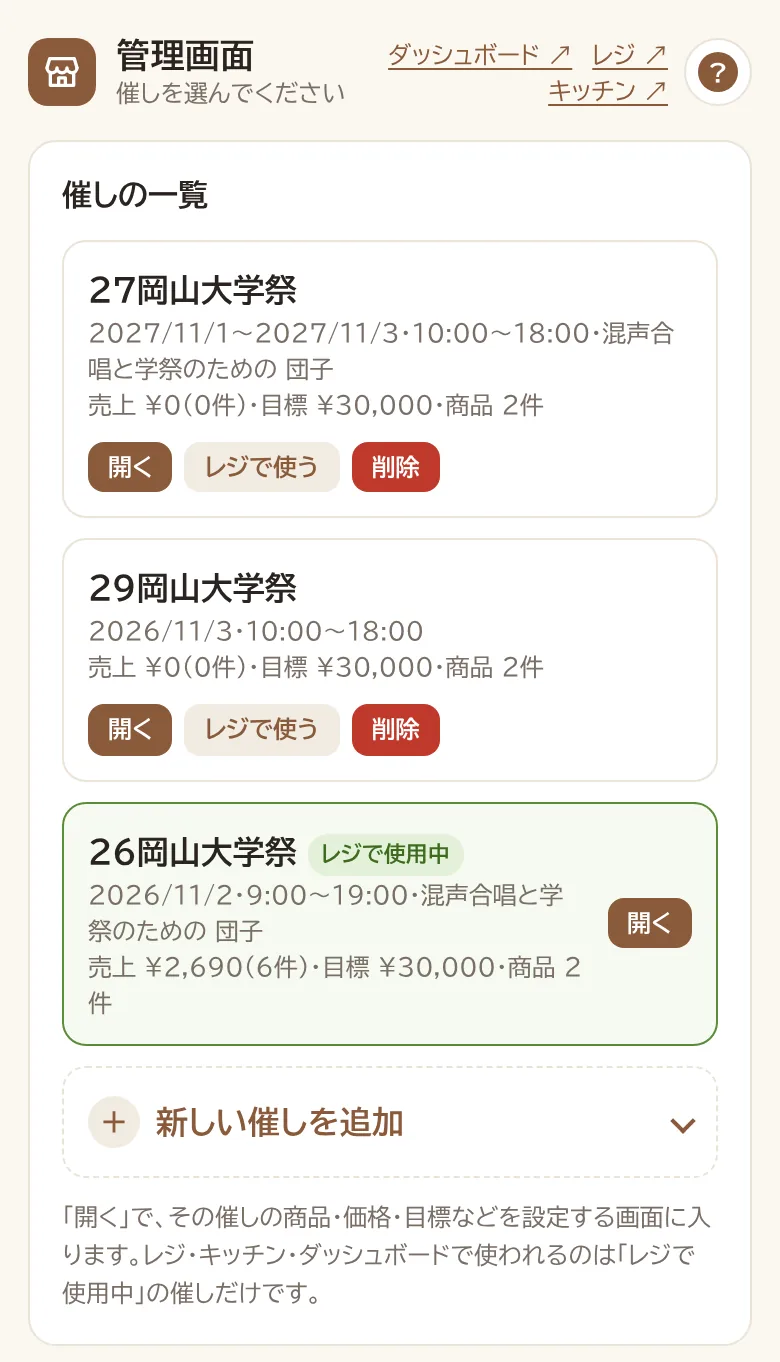
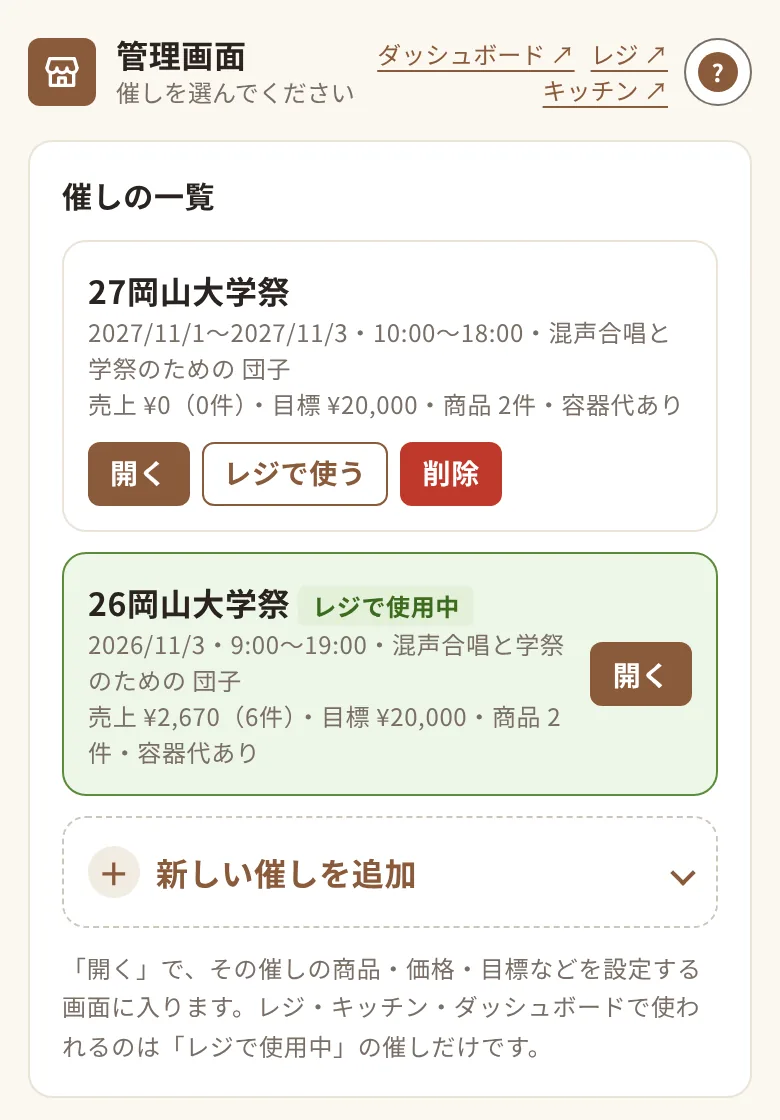
ヘルプのスクリーンショットを新しいデザインで撮り直す
- public/help/*.webp（26枚）をデモデータで撮り直し、画像の大きさの指定と説明文（alt）を合わせる
- お預かり金額の入力欄に数字の上下ボタンを出さない

Claude-Session: https://claude.ai/code/session_01UZ9qf4W2YaGSTJ3RujnS96

diff --git a/public/admin.html b/public/admin.html
@@ -85,6 +85,8 @@
   .recv-quick button { background: var(--mg-surface-sub); border-radius: var(--mg-radius-md); padding: 14px 4px; font-size: 17px; font-weight: 700; color: var(--mg-text); }
   .recv-quick button.exact { background: var(--mg-success-bg-strong); color: var(--mg-success-text); }
   .recv-input { width: 100%; padding: 14px; font-size: 26px; text-align: right; border: 1px solid var(--mg-border-field); border-radius: var(--mg-radius-md); background: var(--mg-surface); color: var(--mg-text); font-variant-numeric: tabular-nums; }
+  .recv-input { -moz-appearance: textfield; }
+  .recv-input::-webkit-outer-spin-button, .recv-input::-webkit-inner-spin-button { -webkit-appearance: none; margin: 0; }   /* 数字の上下ボタンは出さない（金額はボタンか入力で） */
   .recv-msg { min-height: 1.6em; margin-top: 8px; font-size: 18px; text-align: right; }
   .recv-msg.short { color: var(--mg-error); font-weight: 700; }
   .modal-btns { display: grid; grid-template-columns: 1fr 1.6fr; gap: 10px; margin-top: 16px; }
@@ -354,7 +356,7 @@
 
   <details>
     <summary>ログインのしかたは？</summary>
-    <figure class="narrow"><img src="/help/reg-login.webp" width="380" height="450" loading="lazy" alt="ログイン画面。担当者名とパスワードの入力欄とログインボタン"></figure>
+    <figure class="narrow"><img src="/help/reg-login.webp" width="380" height="483" loading="lazy" alt="ログイン画面。担当者名とパスワードの入力欄とログインボタン"></figure>
     <p>自分の名前（担当者名）と、レジ用のパスワードを入れて「ログイン」を押します。パスワードは店の責任者に聞いてください。名前は会計ごとに記録されるので、本人の名前を入れてください。</p>
     <p>ログインは<b>3日間</b>有効なので、同じスマホなら翌日もそのまま使えます。パスワードはスマホに保存されません。</p>
   </details>
@@ -369,7 +371,7 @@
 
   <details>
     <summary>本数の入れ方は？（味ごとの入力）</summary>
-    <figure class="narrow"><img src="/help/reg-qty.webp" width="370" height="205" loading="lazy" alt="商品ごとの入力欄。団子は、みたらし2、あんこ1、きなこ1の味のボタンと、計4本の表示。各ボタンの左下にマイナス。焼きマシュマロはマイナス、本数、プラスのボタン"></figure>
+    <figure class="narrow"><img src="/help/reg-qty.webp" width="370" height="209" loading="lazy" alt="商品ごとの入力欄。団子は、みたらし2、あんこ1、きなこ1の味のボタンと、計4本の表示。各ボタンの左下にマイナス。焼きマシュマロはマイナス、本数、プラスのボタン"></figure>
     <p><b>団子のように味のある商品</b>は、お客さんの言う味のボタンを、その本数だけタップします。「みたらし2本と、あんこ・きなこ1本ずつ」なら、「みたらし」を2回、「あんこ」と「きなこ」を1回ずつ押します。ボタンに本数が出て、右上の「計 ○本」が合計です。</p>
     <p>押しすぎたら、そのボタンの左下の「−」で1本ずつ減らします（「−」は1本以上入っている味にだけ出ます）。全部やり直すときは「お会計」の「クリア」を押します。</p>
     <p>セットの組み方は<b>味に関係なく合計の本数</b>で自動で決まります。たとえば団子4本なら「3本セット＋1本」、7本なら「5本セット＋1本×2」と、お客さんに一番有利な組み方で計算します。味の組み合わせは自由です。</p>
@@ -379,7 +381,7 @@
 
   <details>
     <summary>「あと1本で〜お得」と出たら？</summary>
-    <figure class="narrow"><img src="/help/reg-cart.webp" width="370" height="201" loading="lazy" alt="お会計欄。団子4本（3本セットと1本）550円、その下に味の内訳みたらし2・あんこ1・きなこ1、容器代10円、あと1本で50円お得（味を聞いて追加）という提案、合計560円"></figure>
+    <figure class="narrow"><img src="/help/reg-cart.webp" width="370" height="240" loading="lazy" alt="お会計欄。団子4本（3本セットと1本）550円、その下に味の内訳みたらし2・あんこ1・きなこ1、容器代10円、あと1本で50円お得（味を聞いて追加）という提案、合計560円"></figure>
     <p>本数を少し足したほうが合計が安くなるときに出る提案です。上の例では、団子4本だと560円ですが、5本にすると510円で50円安くなります。</p>
     <p>お客さんに「あと1本足すとお得になりますよ」と声をかけて、希望されたら<b>何味にするか聞いて</b>、その味のボタンを押してください。そのままでよければ、何もせず会計に進んでかまいません。</p>
     <p>味のない商品だけのときは、提案の横に黄色の「○本にする」ボタンが出るので、それを押せば足せます。</p>
@@ -398,7 +400,7 @@
 
   <details>
     <summary>支払方法のボタンを押したあとは？</summary>
-    <figure class="narrow"><img src="/help/reg-pay.webp" width="370" height="63" loading="lazy" alt="支払方法のボタン。現金、PayPay、d払い"></figure>
+    <figure class="narrow"><img src="/help/reg-pay.webp" width="370" height="68" loading="lazy" alt="支払方法のボタン。現金、PayPay、d払い"></figure>
     <p>お客さんの支払方法のボタンを押すと、記録の前に確認の画面が出ます。ボタンを押しただけでは、まだ記録されません。</p>
     <p>キャッシュレス（PayPay、d払いなど現金以外）のときは、お客さんの支払いが済んだのを確かめてから、確認画面の「はい（記録する）」を押してください。</p>
       <p>出てくる支払方法は、管理画面で催しごとに選んだものです（現金を扱わない催しでは「現金」が出ません）。お預かり金額とおつりを入れるのは「現金」のときだけです。</p>
@@ -406,13 +408,13 @@
 
   <details>
     <summary>現金のとき（お預かりとおつり）は？</summary>
-    <figure class="narrow"><img src="/help/reg-recv.webp" width="358" height="389" loading="lazy" alt="お預かり金額の入力画面。合計510円、ちょうどや1,000円などのボタン、入力欄、おつり490円の表示"></figure>
+    <figure class="narrow"><img src="/help/reg-recv.webp" width="390" height="503" loading="lazy" alt="お預かり金額の入力画面。合計510円、ちょうどや1,000円などのボタン、入力欄、おつり490円の表示"></figure>
     <p>現金では、先に<b>お預かり金額</b>を入れます。「ちょうど」や「¥1,000」などのボタンを押すか、下の欄に金額を入力してください。入れるとおつりが表示されます。合計より少ない金額では「次へ」が押せません。</p>
   </details>
 
   <details>
     <summary>確認画面では何を見ればいい？</summary>
-    <figure class="narrow"><img src="/help/reg-confirm.webp" width="390" height="520" loading="lazy" alt="確認画面。現金の表示、団子5本セット500円、容器代10円、数量 団子5本、味 みたらし2・あんこ2・きなこ1、合計510円、お預かり1,000円、おつり490円、いいえとはいのボタン"></figure>
+    <figure class="narrow"><img src="/help/reg-confirm.webp" width="390" height="641" loading="lazy" alt="確認画面。現金の表示、団子5本セット500円、容器代10円、数量 団子5本、味 みたらし2・あんこ2・きなこ1、合計510円、お預かり1,000円、おつり490円、いいえとはいのボタン"></figure>
     <p>いちばん上の色つきの帯が支払方法です（ボタンと同じ色。現金は緑）。本数、<b>味</b>（ピンクの行）、合計金額、現金ならおつりを確かめて、よければ「はい（記録する）」を押します。味は、お客さんに読み上げて確かめると間違いが減ります。</p>
     <p>間違いに気づいたら「いいえ」を押すと、入力したお会計はそのままで前の画面に戻ります。現金で、お預かり金額だけを直したいときは「← お預かり金額を入力し直す」を押してください。</p>
   </details>
@@ -421,7 +423,7 @@
 
   <details>
     <summary>記録した会計を間違えた</summary>
-    <figure class="narrow"><img src="/help/reg-hist.webp" width="370" height="382" loading="lazy" alt="最近の会計の一覧。各行に会計番号と時刻、内容と味、金額、取消ボタン。キッチンで作り終わった会計には「できた」の印。取消済みの行は取り消し線が引かれ、戻すボタンになっている"></figure>
+    <figure class="narrow"><img src="/help/reg-hist.webp" width="370" height="509" loading="lazy" alt="最近の会計の一覧。各行に会計番号と時刻、内容と味、金額、取消ボタン。キッチンで作り終わった会計には「できた」の印。取消済みの行は取り消し線が引かれ、戻すボタンになっている"></figure>
     <p>「最近の会計」の一覧で、その会計の「取消」を押します。取り消した会計には取り消し線が引かれ、売上と本数から外れます。キッチン画面でも赤い線で「取消」と表示されるので、作らずに済みます。正しい内容（正しい味）で、もう一度会計し直してください。</p>
     <p>取り消しを間違えたときは、同じ行の「戻す」で元に戻せます。取消と戻すは、誰がいつしたかが記録されます。電波がないときも取り消せます（あとで自動で送信されます）。</p>
     <p>ここに出るのは最新の5件です。それより前の会計は、下の「すべての会計を見る」から探して取り消してください（こちらは電波が必要です）。</p>
@@ -440,7 +442,7 @@
 
   <details>
     <summary>電波がないとき（オフライン）は？</summary>
-    <figure class="narrow"><img src="/help/reg-offline.webp" width="370" height="40" loading="lazy" alt="画面上部の赤い帯。オフライン、未送信2件"></figure>
+    <figure class="narrow"><img src="/help/reg-offline.webp" width="370" height="46" loading="lazy" alt="画面上部の赤い帯。オフライン、未送信2件"></figure>
     <p>そのまま会計を続けてください。電波がないと画面の上の帯が<b>赤い「オフライン（端末に保存）」</b>になり、会計と取消は<b>スマホの中に保存</b>されます。保存した件数と金額は「未送信 ○件」に出ます。最近の会計にも「未送信」と付いて表示されます。</p>
     <p>電波が戻ると、古い順に<b>自動で送信</b>され、「未送信 0 件」になります。すぐ送りたいときは帯の右の「送信」を押してください。同じ会計が二重に記録されることはありません。</p>
     <p>電波がない状態で画面を開き直しても、レジは開けます（一度でも電波のある場所で開いていれば）。ダッシュボードの数字には、送信されてから反映されます。</p>

diff --git a/public/master.html b/public/master.html
@@ -370,14 +370,14 @@
 
   <details>
     <summary>催しとは？</summary>
-    <figure class="narrow"><img src="/help/master-projects.webp" width="390" height="681" loading="lazy" alt="催しの一覧。27岡山大学祭と、レジで使用中の26岡山大学祭。それぞれ期間・営業時間・売上・目標・商品の数と、開く・レジで使うのボタン。いちばん下に「新しい催しを追加」の行"></figure>
+    <figure class="narrow"><img src="/help/master-projects.webp" width="390" height="560" loading="lazy" alt="催しの一覧。27岡山大学祭と、レジで使用中の26岡山大学祭。それぞれ期間・営業時間・売上・目標・商品の数と、開く・レジで使うのボタン。いちばん下に「新しい催しを追加」の行"></figure>
     <p>「26岡山大学祭」「27岡山大学祭」のような、模擬店を出す1回ごとのまとまりです。催しごとに、商品・価格・味・セット、目標金額、容器代のルール、営業時間、会計（売上）が別々に記録されます。会計番号（#）も催しごとに #1 から始まります。</p>
     <p>レジ・キッチン・ダッシュボード・会計の一覧で使われるのは、<b>「レジで使用中」の催し1つだけ</b>です。前の催しの売上や商品は、催しを切り替えても消えずに残ります。</p>
   </details>
 
   <details>
     <summary>新しい催しを作る（次の学祭の準備）</summary>
-    <figure class="narrow"><img src="/help/master-newproject.webp" width="328" height="673" loading="lazy" alt="「新しい催しを追加」を押して開いた入力欄。催し名、模擬店の名前、開始日、終了日、営業開始、営業終了、目標金額、容器代を取るのチェック（初期はオフ）、前の催しから設定を複製（初期は「複製しない」）、作ったらこの催しをレジで使うのチェック、作成して開くボタン"></figure>
+    <figure class="narrow"><img src="/help/master-newproject.webp" width="328" height="718" loading="lazy" alt="「新しい催しを追加」を押して開いた入力欄。催し名、模擬店の名前、開始日、終了日、営業開始、営業終了、目標金額、容器代を取るのチェック（初期はオフ）、前の催しから設定を複製（初期は「複製しない」）、作ったらこの催しをレジで使うのチェック、作成して開くボタン"></figure>
     <p>催しの一覧のいちばん下の「＋ 新しい催しを追加」を押すと、入力欄が開きます。催し名・開始日・終了日・営業時間を入れて「作成して開く」を押します（「やめる」で閉じます）。模擬店の名前（例：混声合唱と学祭のための 団子）を入れると、ダッシュボードに表示されます。</p>
     <p><b>前の催しから設定を複製</b>で前の催しを選ぶと、商品・価格・セット・味と容器代のルールをそのまま引き継げます（目標金額も選べます）。売上は複製されません。複製したあとで、値段や味を今年の分に直してください。</p>
     <p>「作ったら、この催しをレジで使う」を外しておくと、今の催しの営業を続けたまま、次の催しの準備だけできます。</p>
@@ -412,7 +412,7 @@
 
   <details>
     <summary>商品や価格を変える・追加する</summary>
-    <figure><img src="/help/master-products.webp" width="638" height="369" loading="lazy" alt="商品・価格の欄。団子の商品名、単位、1本150円、3本セット400円、5本セット500円、味の欄（みたらし、あんこ、きなこ）、セットの選択、容器代の対象と販売中のチェック、保存ボタン"></figure>
+    <figure><img src="/help/master-products.webp" width="658" height="443" loading="lazy" alt="商品・価格の欄。団子の商品名、単位、1本150円、3本セット400円、5本セット500円、味の欄（みたらし、あんこ、きなこ）、セットの選択、容器代の対象と販売中のチェック、保存ボタン"></figure>
     <p>「商品・価格」で、商品名、単位、数量ごとの価格（セット）を直して「保存」を押します。変えた商品の枠は保存するまで黄色になります。新しい商品は「＋ 商品を追加」から。1個（1本）の価格は必ず入れてください。</p>
     <p>「セット」で「○○のセット価格に含める」を選ぶと、その商品と本数を合わせて、相手の商品のセット価格で計算します（例：<b>焼きマシュマロの欄</b>で「団子のセット価格に含める」にすると、団子3本＋焼きマシュマロ2本で5本セット500円）。相手に選べるのは、セット価格（2本以上の価格）がある商品だけです。混ぜたセットの金額は、本数の割合で商品ごとに分けて記録します。</p>
     <p>「味」に「みたらし、あんこ、きなこ」のように「、」で区切って入れると、レジではその商品を<b>味ごとに</b>数えて入力するようになり、キッチン画面（<code>/kitchen</code>）にも味ごとに表示されます。セットの組み方や金額は味に関係なく、合計の本数で決まります。味を空にすると、これまでどおり数だけを入れる商品になります。味は12種類まで、1つ12文字までです。並べた順に、レジのボタンとキッチンの合計が並びます。</p>
@@ -431,20 +431,20 @@
 
   <details>
     <summary>目標金額を変える</summary>
-    <figure><img src="/help/master-target.webp" width="692" height="123" loading="lazy" alt="目標金額の入力欄と変更するボタン"></figure>
+    <figure><img src="/help/master-target.webp" width="692" height="136" loading="lazy" alt="目標金額の入力欄と変更するボタン"></figure>
     <p>欄に新しい金額を数字で入れて「変更する」を押します。ダッシュボードとレジの「目標まで」に反映されます。変更は操作の記録に残ります。</p>
   </details>
 
   <details>
     <summary>端末を締め出す（ログインを解除する）</summary>
-    <figure><img src="/help/master-sessions.webp" width="692" height="243" loading="lazy" alt="ログイン中の端末の一覧。種類、名前、端末、ログイン時刻、最終利用時刻と、締め出すボタン"></figure>
+    <figure><img src="/help/master-sessions.webp" width="692" height="326" loading="lazy" alt="ログイン中の端末の一覧。種類、名前、端末、ログイン時刻、最終利用時刻と、締め出すボタン"></figure>
     <p>「ログイン中の端末」に、今ログインしている端末が名前つきで並びます。1台ずつ締め出すときは、その行の「締め出す」を押します。「レジ端末をすべて締め出す」で、レジの端末をまとめて解除できます。</p>
     <p>締め出された端末は、次の操作でログイン画面に戻ります。パスワードを知っていれば再びログインできるので、スマホをなくしたときなどは、下でレジのパスワードも変えてください。</p>
   </details>
 
   <details>
     <summary>「ログインできない」と言われたとき</summary>
-    <figure><img src="/help/master-unlock.webp" width="692" height="159" loading="lazy" alt="ログイン制限のカード。ログイン制限を解除ボタンと説明"></figure>
+    <figure><img src="/help/master-unlock.webp" width="692" height="172" loading="lazy" alt="ログイン制限のカード。ログイン制限を解除ボタンと説明"></figure>
     <p>同じ接続元から10分間に5回パスワードを間違えると、その接続元からは10分間ログインできなくなります。同じ Wi-Fi やテザリングを使っている人はまとめて止まるので、打ち間違いで巻き込まれた人がいるときは「ログイン制限を解除」を押してください。ログイン済みの端末には影響しません。</p>
   </details>
 

diff --git a/public/kitchen.html b/public/kitchen.html
@@ -136,7 +136,7 @@
 
   <details>
     <summary>ログインのしかたは？</summary>
-    <figure class="narrow"><img src="/help/kitchen-login.webp" width="380" height="450" loading="lazy" alt="キッチンのログイン画面。名前とレジ用パスワードの入力欄とログインボタン"></figure>
+    <figure class="narrow"><img src="/help/kitchen-login.webp" width="380" height="465" loading="lazy" alt="キッチンのログイン画面。名前とレジ用パスワードの入力欄とログインボタン"></figure>
     <p>名前（例：「キッチン」や自分の名前）と、<b>レジと同じパスワード</b>を入れて「ログイン」を押します。ログインは3日間有効です。</p>
   </details>
 
@@ -144,7 +144,7 @@
 
   <details>
     <summary>1つの注文の見かたは？</summary>
-    <figure class="narrow"><img src="/help/kitchen-new.webp" width="366" height="161" loading="lazy" alt="注文のカード。#7、18時38分、1分、みたらし×1、あんこ×1、焼きマシュマロ×2"></figure>
+    <figure class="narrow"><img src="/help/kitchen-new.webp" width="366" height="214" loading="lazy" alt="届いたばかりの注文のカード（ピンクの枠）。#7、たった今、みたらし×1、あんこ×1、焼きマシュマロ×2"></figure>
     <ul>
       <li><b>#7</b>：注文番号（レジの会計番号と同じ）</li>
       <li><b>18:38</b>：レジで会計した時刻</li>
@@ -155,19 +155,19 @@
 
   <details>
     <summary>上のピンクの枠（味ごとの合計）は？</summary>
-    <figure class="narrow"><img src="/help/kitchen-todo.webp" width="390" height="197" loading="lazy" alt="画面上部。キッチン、まだ4件、右上にダッシュボード・レジ・管理画面へのリンクと使い方のボタン、その下に更新時刻、できたを隠す・音のボタン、みたらし4・あんこ4・きなこ3・焼きマシュマロ3"></figure>
+    <figure class="narrow"><img src="/help/kitchen-todo.webp" width="390" height="200" loading="lazy" alt="画面上部。キッチン、まだ4件、右上にダッシュボード・レジ・管理画面へのリンクと使い方のボタン、その下に更新時刻、できたを隠す・音のボタン、みたらし4・あんこ5・きなこ2・焼きマシュマロ3"></figure>
     <p>「まだ ○件」は、まだ「できた」にしていない注文の数です。ピンクの枠は、それらの注文を<b>味ごとに足した本数</b>です。まとめて焼くときや、タレの準備の目安にしてください。「できた」にすると、その分が減ります。</p>
   </details>
 
   <details>
     <summary>枠がオレンジや赤になった</summary>
-    <figure class="narrow"><img src="/help/kitchen-late.webp" width="366" height="189" loading="lazy" alt="赤い枠の注文。#3、17分、みたらし×2、あんこ×1、きなこ×1、焼きマシュマロ×1"></figure>
+    <figure class="narrow"><img src="/help/kitchen-late.webp" width="366" height="253" loading="lazy" alt="赤い枠の注文。#3、21分、みたらし×2、あんこ×1、きなこ×1、焼きマシュマロ×1"></figure>
     <p>注文から時間がたっている印です。<b>10分を超えるとオレンジ、15分を超えると赤</b>になります。お客さんを待たせているので、先に作るか、レジに声をかけてください。</p>
   </details>
 
   <details>
     <summary>赤い線で「取消」と出ている</summary>
-    <figure class="narrow"><img src="/help/kitchen-cancel.webp" width="366" height="107" loading="lazy" alt="取り消された注文。#5、みたらし×1に赤い線、取消（作らなくてよい注文です）"></figure>
+    <figure class="narrow"><img src="/help/kitchen-cancel.webp" width="366" height="136" loading="lazy" alt="取り消された注文。#5、みたらし×1に赤い線、取消（作らなくてよい注文です）"></figure>
     <p>レジで取り消された注文です。<b>作らなくてかまいません</b>（味ごとの合計にも入っていません）。たいていは、すぐ後ろに正しい内容の注文が届いています。</p>
   </details>
 
@@ -175,9 +175,9 @@
 
   <details>
     <summary>「できた」にするには？</summary>
-    <figure class="narrow"><img src="/help/kitchen-swipe.webp" width="390" height="185" loading="lazy" alt="注文のカードを右へスワイプしている途中。緑色になり、離すとできたと表示"></figure>
+    <figure class="narrow"><img src="/help/kitchen-swipe.webp" width="390" height="237" loading="lazy" alt="注文のカードを右へスワイプしている途中。緑色になり、離すとできたと表示"></figure>
     <p>その注文を<b>タップ</b>するか、<b>右へスワイプ</b>します。スワイプは、カードが緑色になって「離すと『できた』」と出たところで指を離してください（途中で離すと何も変わりません）。</p>
-    <figure class="narrow"><img src="/help/kitchen-done.webp" width="366" height="105" loading="lazy" alt="できた注文。#2、きなこ×3に打ち消し線、できた18時39分（タップで戻す）"></figure>
+    <figure class="narrow"><img src="/help/kitchen-done.webp" width="366" height="136" loading="lazy" alt="できた注文。#2、きなこ×3に打ち消し線、できた時刻（タップで戻す）"></figure>
     <p>「できた」にすると打ち消し線が引かれ、時刻が記録されます。ほかのキッチンの端末と、レジの「最近の会計」（「✓できた」）にも反映されます。</p>
   </details>
 

diff --git a/public/index.html b/public/index.html
@@ -182,14 +182,14 @@
 
   <details>
     <summary>「現在の売上」と目標の表示</summary>
-    <figure><img src="/help/dash-hero.webp" width="358" height="253" loading="lazy" alt="現在の売上、商品代と容器代の内訳、目標金額、達成率のバー、目標まであといくらかの表示"></figure>
+    <figure><img src="/help/dash-hero.webp" width="358" height="446" loading="lazy" alt="現在の売上、商品代と容器代の内訳、目標金額、達成率のバー、目標まであといくらか、目標達成の目安（1時間あたり）の表示"></figure>
     <p><b>現在の売上</b>は、お客さんから受け取った金額の合計です。商品代と容器代の両方を含み、カッコ内にその内訳が出ます。レジで取り消した会計は含みません。</p>
     <p>バーは目標に対する達成率です。その下に<b>目標まであといくら</b>かと、<b>1時間あたりの目安</b>（目標までの残り ÷ 閉店の19:00までの残り時間）、直前の1時間の実績と比べてペースが足りているか、団子の5本セット（容器代込み）で売るとあと何セットか、の目安が出ます。目標を超えると「🎉 達成！ ○円の黒字（見込）」の表示に変わります。</p>
   </details>
 
   <details>
     <summary>「目標に対する売上の内訳」の円グラフ</summary>
-    <figure><img src="/help/dash-pie.webp" width="358" height="421" loading="lazy" alt="円グラフ。円全体が目標金額で、団子、焼きマシュマロ、容器代が色分けされ、届いていない分がグレーの未達。中央に達成率"></figure>
+    <figure><img src="/help/dash-pie.webp" width="358" height="456" loading="lazy" alt="円グラフ。円全体が目標金額で、団子、焼きマシュマロ、容器代が色分けされ、届いていない分がグレーの未達。中央に達成率"></figure>
     <p>円全体が<b>目標金額</b>です。商品ごとの売上と容器代を色分けして、まだ届いていない分は<b>グレーの「未達」</b>で表します。中央の数字が達成率です。</p>
     <p>下の一覧に、それぞれの金額と、目標に対する割合が出ます。グラフや一覧の行に触れると、その部分が強調されます。目標を超えたら、円全体は売上の合計になります。</p>
   </details>
@@ -197,7 +197,7 @@
   <details>
     <summary>「売れた数」とセットの個数</summary>
     <p>商品ごとの売れた数（本数）と、セットのある商品はセットごとの個数です。レジは本数からセットを自動で組むので、たとえば団子4本の会計は「3本セット1個と1本1個」として数えます。</p>
-    <figure class="narrow"><img src="/help/dash-flavors.webp" width="316" height="233" loading="lazy" alt="売れた数の団子の欄。セットごとの個数の下に、味ごとの本数（みたらし、あんこ、きなこ）"></figure>
+    <figure class="narrow"><img src="/help/dash-flavors.webp" width="316" height="305" loading="lazy" alt="売れた数の団子の欄。セットごとの個数の下に、味ごとの本数（みたらし、あんこ、きなこ）"></figure>
     <p>味を登録した商品は、その下に<b>味ごとの本数</b>も出ます（取り消した会計は除く）。どの味がよく売れているかを見て、仕込みや来年の仕入れの参考にしてください。</p>
   </details>
 

diff --git a/README.md b/README.md
@@ -39,7 +39,7 @@
 - 切り替え前にレジで打ってまだ送れていない会計（オフライン）は、あとで届いても **打ったときの催し** に記録される（会計に催しの番号を付けて送るため）
 - **催しの削除**：レジで使っていない催しは削除できる（会計・商品・設定もすべて削除。元に戻せない）。会計の記録がある催しは、催し名とマスターパスワードの入力が必要
 
-<img src="public/help/master-projects.webp" width="360" alt="管理画面の催しの一覧。28岡山大学祭（レジで使用中）、27岡山大学祭、26岡山大学祭と、新しい催しを作るフォーム">
+<img src="public/help/master-projects.webp" width="360" alt="管理画面の催しの一覧。27岡山大学祭と、レジで使用中の26岡山大学祭、いちばん下に「新しい催しを追加」の行">
 
 ### 既存のデータの移行
 
@@ -116,7 +116,7 @@
 - ログインは名前＋レジ用パスワード（レジと同じ。3日間有効）。キッチン用のスマホ・タブレットで開きっぱなしにして使う想定。タブレット横向きでは複数列に並びます
 - 各注文に会計番号（#）、時刻、注文からの経過時間、味ごとの数（味のない商品は商品名）
 
-  <img src="public/help/kitchen-new.webp" width="320" alt="注文のカード。#7、18時38分、1分、みたらし×1、あんこ×1、焼きマシュマロ×2">
+  <img src="public/help/kitchen-new.webp" width="320" alt="届いたばかりの注文のカード（ピンクの枠）。#7、たった今、みたらし×1、あんこ×1、焼きマシュマロ×2">
 
 - 作り終わった注文は **タップ** または **右へスワイプ** で「できた」→ 左から打ち消し線が引かれます。スワイプは、カードが緑になり「離すと『できた』」と出たところで離すと確定（途中で離すと何もしない）
 - 間違えたら、もう一度タップ／左へスワイプ／画面下の「元に戻す」で戻せます。「できた」はほかのキッチン端末と、レジの「最近の会計」（✓できた）にも反映
@@ -127,7 +127,7 @@
 
 - 上の帯に「まだ N件」と、まだ作っていない分の **味ごとの合計**（まとめて焼くとき・タレの準備の目安）
 
-  <img src="public/help/kitchen-todo.webp" width="320" alt="キッチン画面の上部。まだ4件、みたらし4、あんこ4、きなこ3、焼きマシュマロ3">
+  <img src="public/help/kitchen-todo.webp" width="320" alt="キッチン画面の上部。まだ4件、みたらし4、あんこ5、きなこ2、焼きマシュマロ3">
 
 - 注文から **10分でオレンジ、15分で赤** の枠になります（`public/kitchen.html` の `LATE_MIN` / `VERY_LATE_MIN`）
 - レジで取り消した注文は赤い線と「取消」で表示し、味ごとの合計にも入れません
